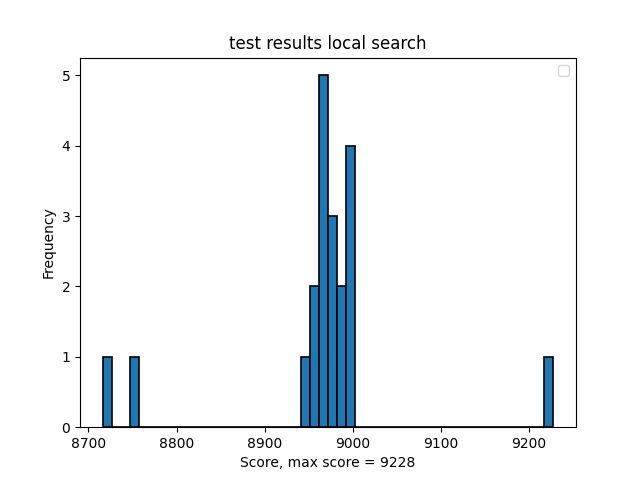
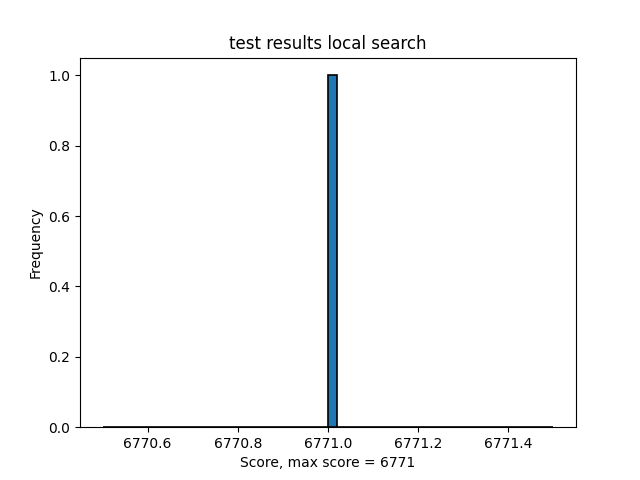
all hillclimber finished, created a main.py in test_david.py with user interface

diff --git a/test_david.py b/test_david.py
@@ -4,60 +4,68 @@ import sys
 from sys import argv
 import matplotlib.pyplot as plt
 import os
+import csv
 
 #import from classes
 sys.path.append('code')
-from code.classes.load import Load
 from code.algorithms.totally_random import Totally_random
 from code.algorithms.semi_random import Semi_random
 from code.algorithms.greedy import GreedySearch
-from code.algorithms.local_search1 import Local_search
+from code.algorithms.depth_first import DepthFirst
+from code.algorithms.breadth_first import BreadthFirst
+from code.algorithms.hillclimber import Hillclimber
+from code.algorithms.local_search import Local_search
+
+sys.path.append('functions')
+from functions.user_interface import get_user_input
 
 #from railnetwork import Railnetwork
 
 if __name__ == '__main__':
-
-    # Check command line arguments
-    if len(argv) not in [1,2]:
-        print('Usage python3 station.py [name]')
-        exit(1)
-
-    # Load the requested connections or else use Holland
-    if len(argv) == 1: 
-        level_name = 'Holland'
-    elif len(argv) == 2:
-        level_name = argv[1]
-
-
-    # Create connections
-    rail_nl = Load(level_name)
-
+    
     print('Welcome to RailNL.\n')
-    
-    # Usage example:
-    semi_random = Semi_random(level_name)
-    totally_random = Totally_random(level_name)
-    local_search = Local_search(level_name)
-    
-    # Results for all three algorithms
-    #results_semi_random = [semi_random.solve(7, 120) for _ in range(2500)]
-    #results_totally_random = [totally_random.solve(7, 120) for _ in range(2500)]
-    #max_score, railnetwork, results = local_search.solve(180, 20, 100)
-    results_local_search = [local_search.solve2(180, 20, 10)[0] for _ in range(1)]
-    maximum = int(max(results_local_search))
 
-    # Create a directory called 'images' if it doesn't exist
+    algorithm_choice, level_name, trajectories, timeframe, iterations, max_iterations  = get_user_input()
+ 
+    algorithm = globals()[algorithm_choice.capitalize()](level_name)  # Adjust the parameters as needed
+
+    results = []
+    best_quality_score = 0
+    if algorithm_choice in ["hillclimber", "local_search", "simulated_annealing"]:
+        for i in range(iterations):
+            quality_score, railnetwork, _ = algorithm.solve(trajectories, timeframe, max_iterations)
+            results.append(quality_score)
+            if quality_score > best_quality_score:
+                best_quality_score = quality_score
+                best_railnetwork = railnetwork
+    else:
+        for i in range(iterations):
+            quality_score, railnetwork = algorithm.solve(trajectories, timeframe)
+            results.append(quality_score)
+            if quality_score > best_quality_score:
+                best_quality_score = quality_score
+                best_railnetwork = railnetwork
+
+    # Create a directory called '' if it doesn't exist
     output_directory = 'plots'
     os.makedirs(output_directory, exist_ok=True)
 
-    output_path = os.path.join(output_directory, 'test_local_search_holland')
-    plt.hist(results_local_search, bins = 50, edgecolor = 'black', linewidth = 1.2)
+    output_path = os.path.join(output_directory, 'nationaal_20_250_hillclimber')
+    plt.hist(results, bins = 50, edgecolor = 'black', linewidth = 1.2)
 
     # Adjust linewidth and add legend
-    plt.title('test results local search')
-    plt.xlabel(f'Score, max score = {maximum}')
-    plt.ylabel('Frequency')
-    plt.legend()
+    plt.title(f'Optimizing Algorithm Performance: {algorithm_choice.capitalize()} Approach\nHistogram Analysis at {level_name.capitalize()} Level')
+    plt.xlabel(f'Quality score, max score = {best_quality_score}')
+    plt.ylabel(f'Frequency (N = {iterations})')
 
     plt.savefig(output_path)
     plt.show()
+
+    # Save railnetwork to CSV
+    railnetwork_csv_path = os.path.join(output_directory, 'max_solution_railnetwork_definite.csv')
+    with open(railnetwork_csv_path, 'w', newline='') as csvfile:
+        csv_writer = csv.writer(csvfile)
+        csv_writer.writerow(['train', 'stations'])
+        for i, trajectory in enumerate(best_railnetwork, start=1):
+            csv_writer.writerow([f'train_{i}', str(trajectory)])
+        csv_writer.writerow(['score', best_quality_score])

diff --git a/code/algorithms/local_search.py b/code/algorithms/local_search.py
@@ -1,0 +1,80 @@
+# import libraries
+from typing import Any, List, Tuple
+
+# Import classes
+from .hillclimber import Hillclimber  # Import hillclimber class
+from code.classes.score import Score
+
+class Local_search(Hillclimber):
+    def __init__(self, level: str):
+        """
+        Initialize the algorithm and load all station objects
+
+        pre: use the Load class
+        post: a dictionary with all objects is initialized
+        """
+        super().__init__(level)  # Call the constructor of the parent class
+    
+
+    def solve(self, timeframe: int, max_trajectory: int, max_iterations: int, 
+              max_iterations2: int) -> Tuple[float, List[Any]]:
+        """
+        Create a solution where the beginning station and end station are removed for a better score
+
+        pre: give a solution from the hillclimber algorithm
+        post: return possibly improved railnetwork and score
+        """
+
+        quality_score, railnetwork, total_time, _ = self.solve(timeframe, max_trajectory, max_iterations)
+        print(f"qs", quality_score)
+        iterations = 0
+        print(f"total time", total_time)
+
+        while iterations <= max_iterations2:
+            # start with the best solution
+            temp_railnetwork = railnetwork.copy()
+
+            for i in range(len(temp_railnetwork)):
+                # search if deleting the first station will improve the solution
+                temp_trajectory = temp_railnetwork[i].copy()
+                print(temp_trajectory)
+                deleted_time = self.data[temp_trajectory[0]].get_distance(temp_trajectory[1])
+                temp_trajectory.pop(0)
+                print(temp_trajectory)
+                temp_total_time = total_time - deleted_time
+                print(f"temp, tot, del", temp_total_time, total_time, deleted_time)
+                temp_quality_score = Score(self.level, railnetwork, temp_total_time).K
+                print("temp_score", temp_quality_score)
+                print(temp_quality_score)
+
+                if temp_quality_score > quality_score:
+                    print("in if")
+                    railnetwork[i] = temp_trajectory
+                    total_time = temp_total_time
+                    quality_score = temp_quality_score
+                    iterations = 0
+
+                # search if deleting the last station will improve the solution
+                temp_trajectory = temp_railnetwork[i].copy()
+                print(temp_trajectory)
+                length_trajectory = len(temp_trajectory) - 1
+                deleted_time = self.data[temp_trajectory[length_trajectory]].get_distance(temp_trajectory[length_trajectory - 1])
+                temp_trajectory.pop()
+                print(temp_trajectory)
+                temp_total_time = total_time - deleted_time
+                print(f"temp, tot, del", temp_total_time, total_time, deleted_time)
+                temp_quality_score = Score(self.level, railnetwork, temp_total_time).K
+                print("temp_score", temp_quality_score)
+                print(temp_quality_score)
+
+                if temp_quality_score > quality_score:
+                    print("in if")
+                    railnetwork[i] = temp_trajectory
+                    total_time = temp_total_time
+                    quality_score = temp_quality_score
+                    iterations = 0
+            iterations += 1
+            print(iterations)
+
+        return quality_score, railnetwork           
+

diff --git a/code/algorithms/hillclimber.py b/code/algorithms/hillclimber.py
@@ -5,8 +5,7 @@ from typing import Any, List, Tuple
 from .semi_random import Semi_random
 from code.classes.score import Score
 
-
-class Local_search1(Semi_random):
+class Hillclimber(Semi_random):
     def __init__(self, level: str):
         """
         Initialize the parent algorithm which is semi_random
@@ -26,11 +25,10 @@ class Local_search1(Semi_random):
         """
         #initialize start of iterations
         self.iterations = 0
-        results = []
 
         # calculate quality score for the random rail network
         total_time, railnetwork = self.generate_railnetwork(max_trajectory, timeframe)
-        quality_score = int(Score(self.level, railnetwork, total_time).K)
+        quality_score = Score(self.level, railnetwork, total_time).K
 
         # when there is no change in max_iterations, the algorithm will stop
         while self.iterations <= max_iterations:
@@ -52,12 +50,12 @@ class Local_search1(Semi_random):
                 quality_score, railnetwork, total_time = self.swap_trajectory(quality_score, railnetwork, total_time)
 
             self.iterations += 1
-            results.append(quality_score)
+            
             
             print(self.iterations)
 
         print(quality_score, railnetwork)
-        return quality_score, railnetwork, results
+        return quality_score, railnetwork, total_time
 
     def remove_trajectory(self, quality_score: int, railnetwork: List[Any], total_time: int) -> Tuple[int, List[Any], int]:
         """
@@ -75,7 +73,7 @@ class Local_search1(Semi_random):
             temp_railnetwork = railnetwork.copy()
             deleted_time = self.calculate_time(temp_railnetwork[i])
             del temp_railnetwork[i]
-            temp_quality_score = int(Score(self.level, temp_railnetwork, (total_time - deleted_time)).K)
+            temp_quality_score = Score(self.level, temp_railnetwork, (total_time - deleted_time)).K
 
             # search for the trajectory that will make the highest score when deleted
             if temp_quality_score > best_deleted_score:
@@ -109,7 +107,7 @@ class Local_search1(Semi_random):
             temp_railnetwork.append(self.new_trajectory)
             temp_total_time = total_time
             temp_total_time += self.duration
-            temp_quality_score = int(Score(self.level, temp_railnetwork, temp_total_time).K)
+            temp_quality_score = Score(self.level, temp_railnetwork, temp_total_time).K
 
             # if addition returns a better solution, add
             if temp_quality_score > quality_score:
@@ -140,7 +138,7 @@ class Local_search1(Semi_random):
             trajectory_time = self.calculate_time(temp_railnetwork[i])
             temp_railnetwork[i] = self.new_trajectory
             temp_total_time = total_time - trajectory_time + self.duration
-            temp_quality_score = int(Score(self.level, temp_railnetwork, temp_total_time).K)
+            temp_quality_score = Score(self.level, temp_railnetwork, temp_total_time).K
 
             # searches for the best solution in all swaps
             if temp_quality_score > best_swap_score:

diff --git a/code/functions/user_interface.py b/code/functions/user_interface.py
@@ -1,0 +1,19 @@
+def get_user_input():
+    algorithm_choice = input("What algorithm do you want to run? (Totally_random, Semi_random, GreedySearch, Breadthfirst, Depthfirst, Hillclimber, Local_search, or Simulated_annealing): ").lower()
+
+    if algorithm_choice not in ['totally_random', 'semi_random', 'greedySearch', 'breadthfirst', 'depthfirst', 'hillclimber', 'local_search', 'simulated_annealing']:
+        print("Invalid algorithm choice. Please choose a valid algorithm.")
+        return None
+
+    level_name = input("Enter the level name: ")
+
+    trajectories = int(input("What is the maximum amount of trajectories? "))
+    timeframe = int(input("What is the timeframe for one trajectory? "))
+    iterations = int(input("How many times would you like to run the algorithm"))
+
+    if algorithm_choice in ['Hillclimber', 'Local_search', 'Simulated_annealing']:
+        max_iterations = int(input("How many iterations are allowed when no better solution is found? "))
+        return algorithm_choice, level_name, trajectories, timeframe, iterations, max_iterations
+    else:
+        max_iterations = None
+        return algorithm_choice, level_name, trajectories, timeframe, iterations, max_iterations
